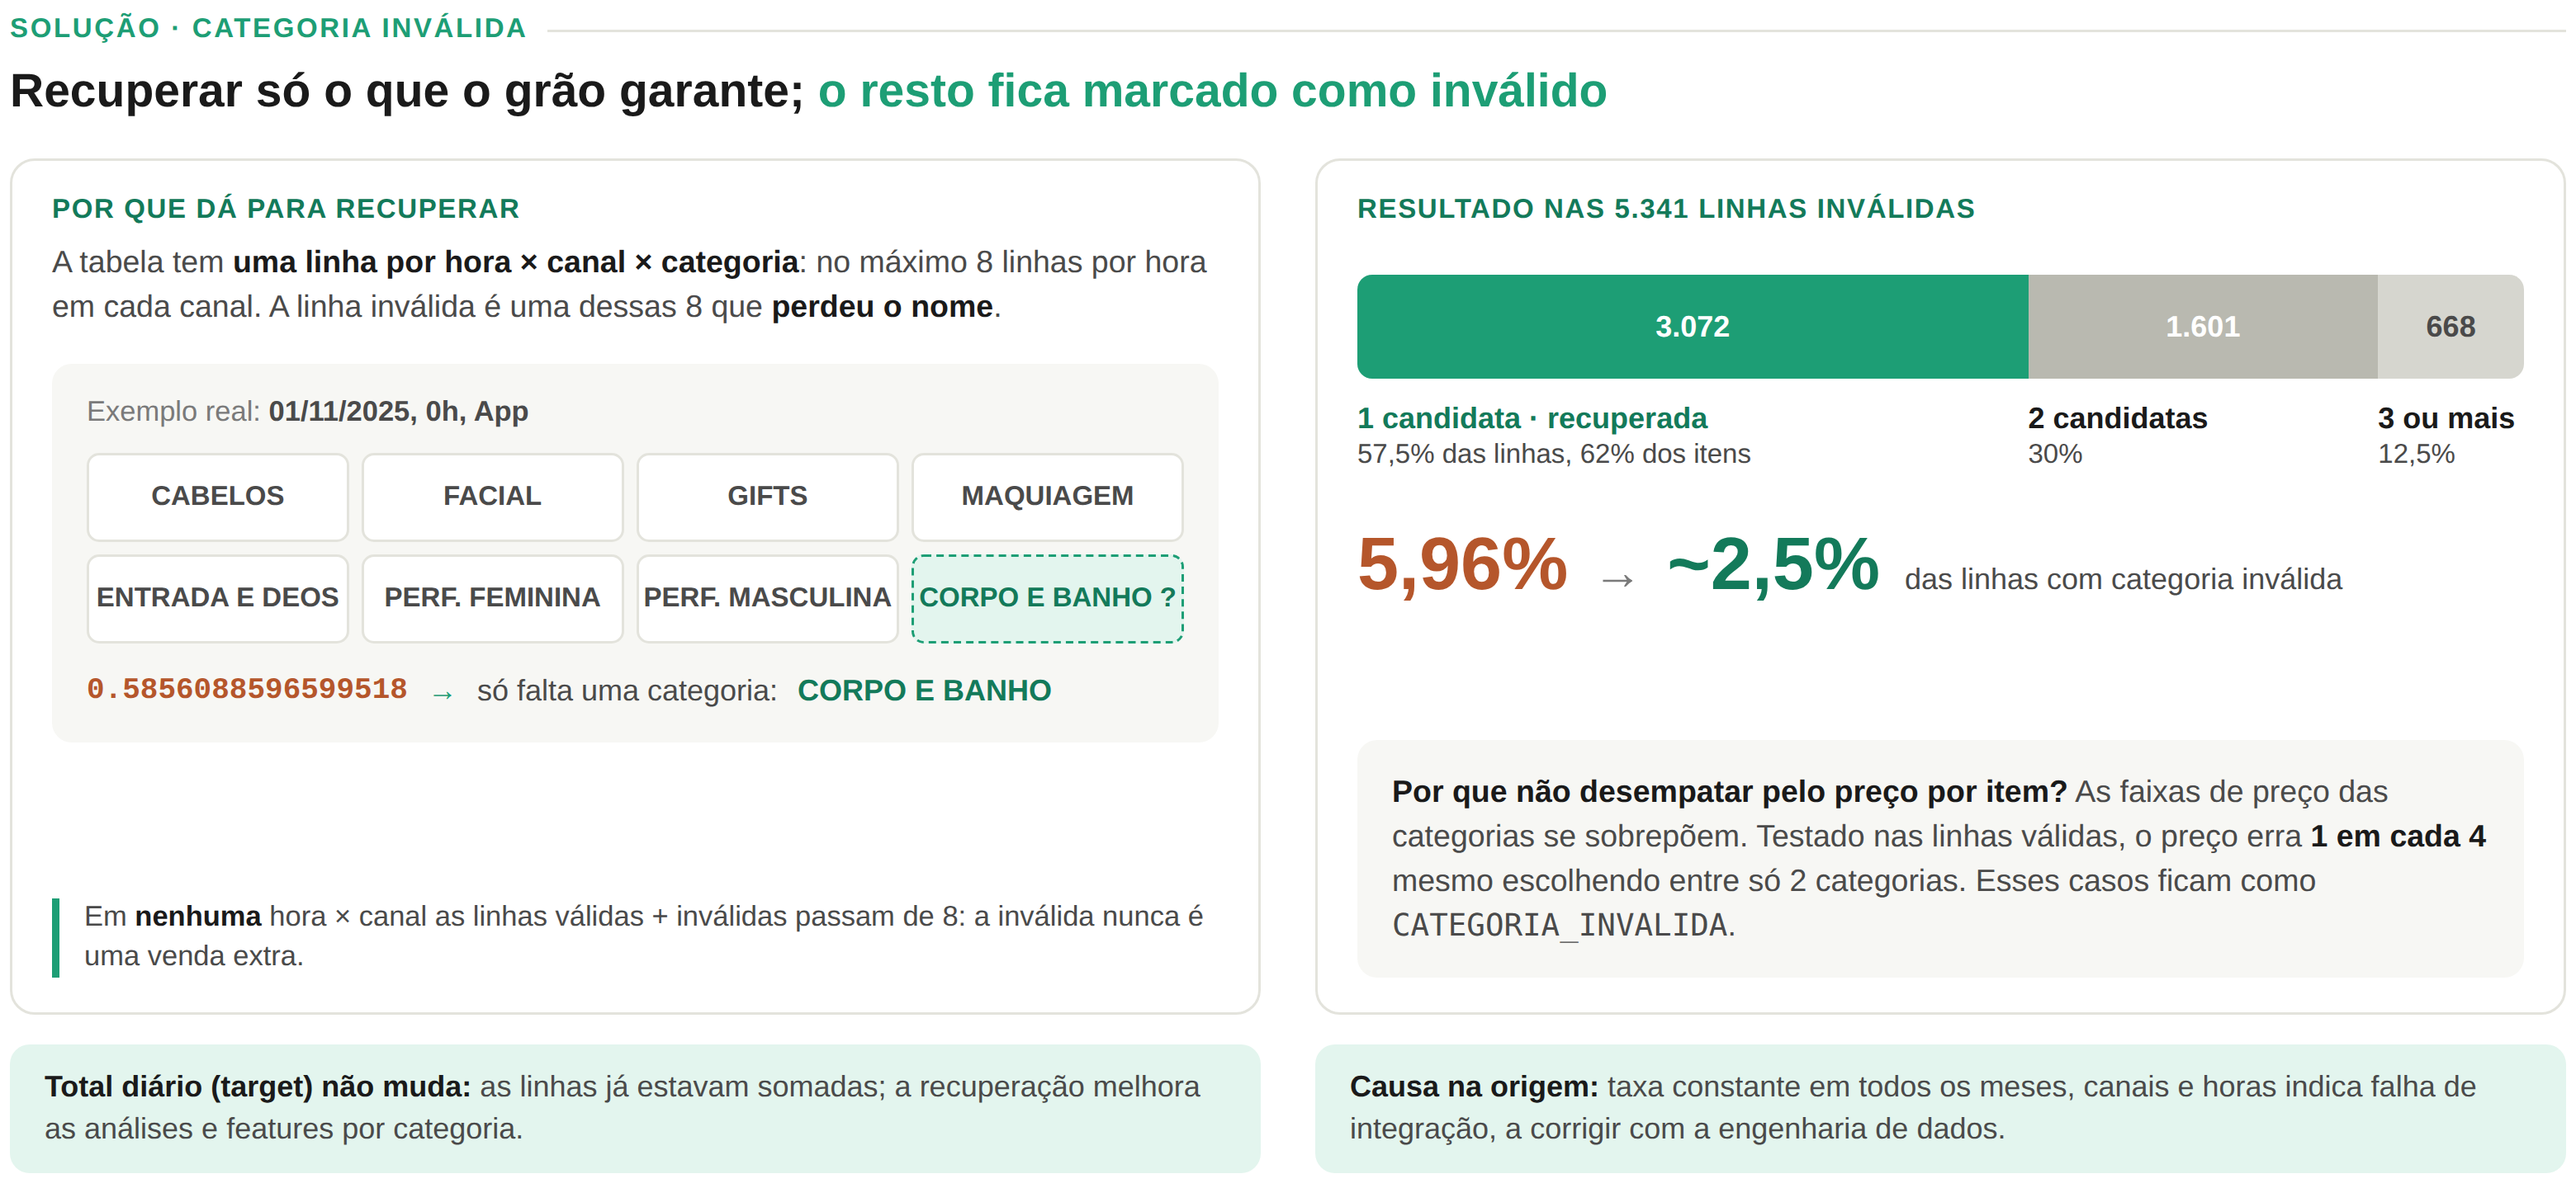
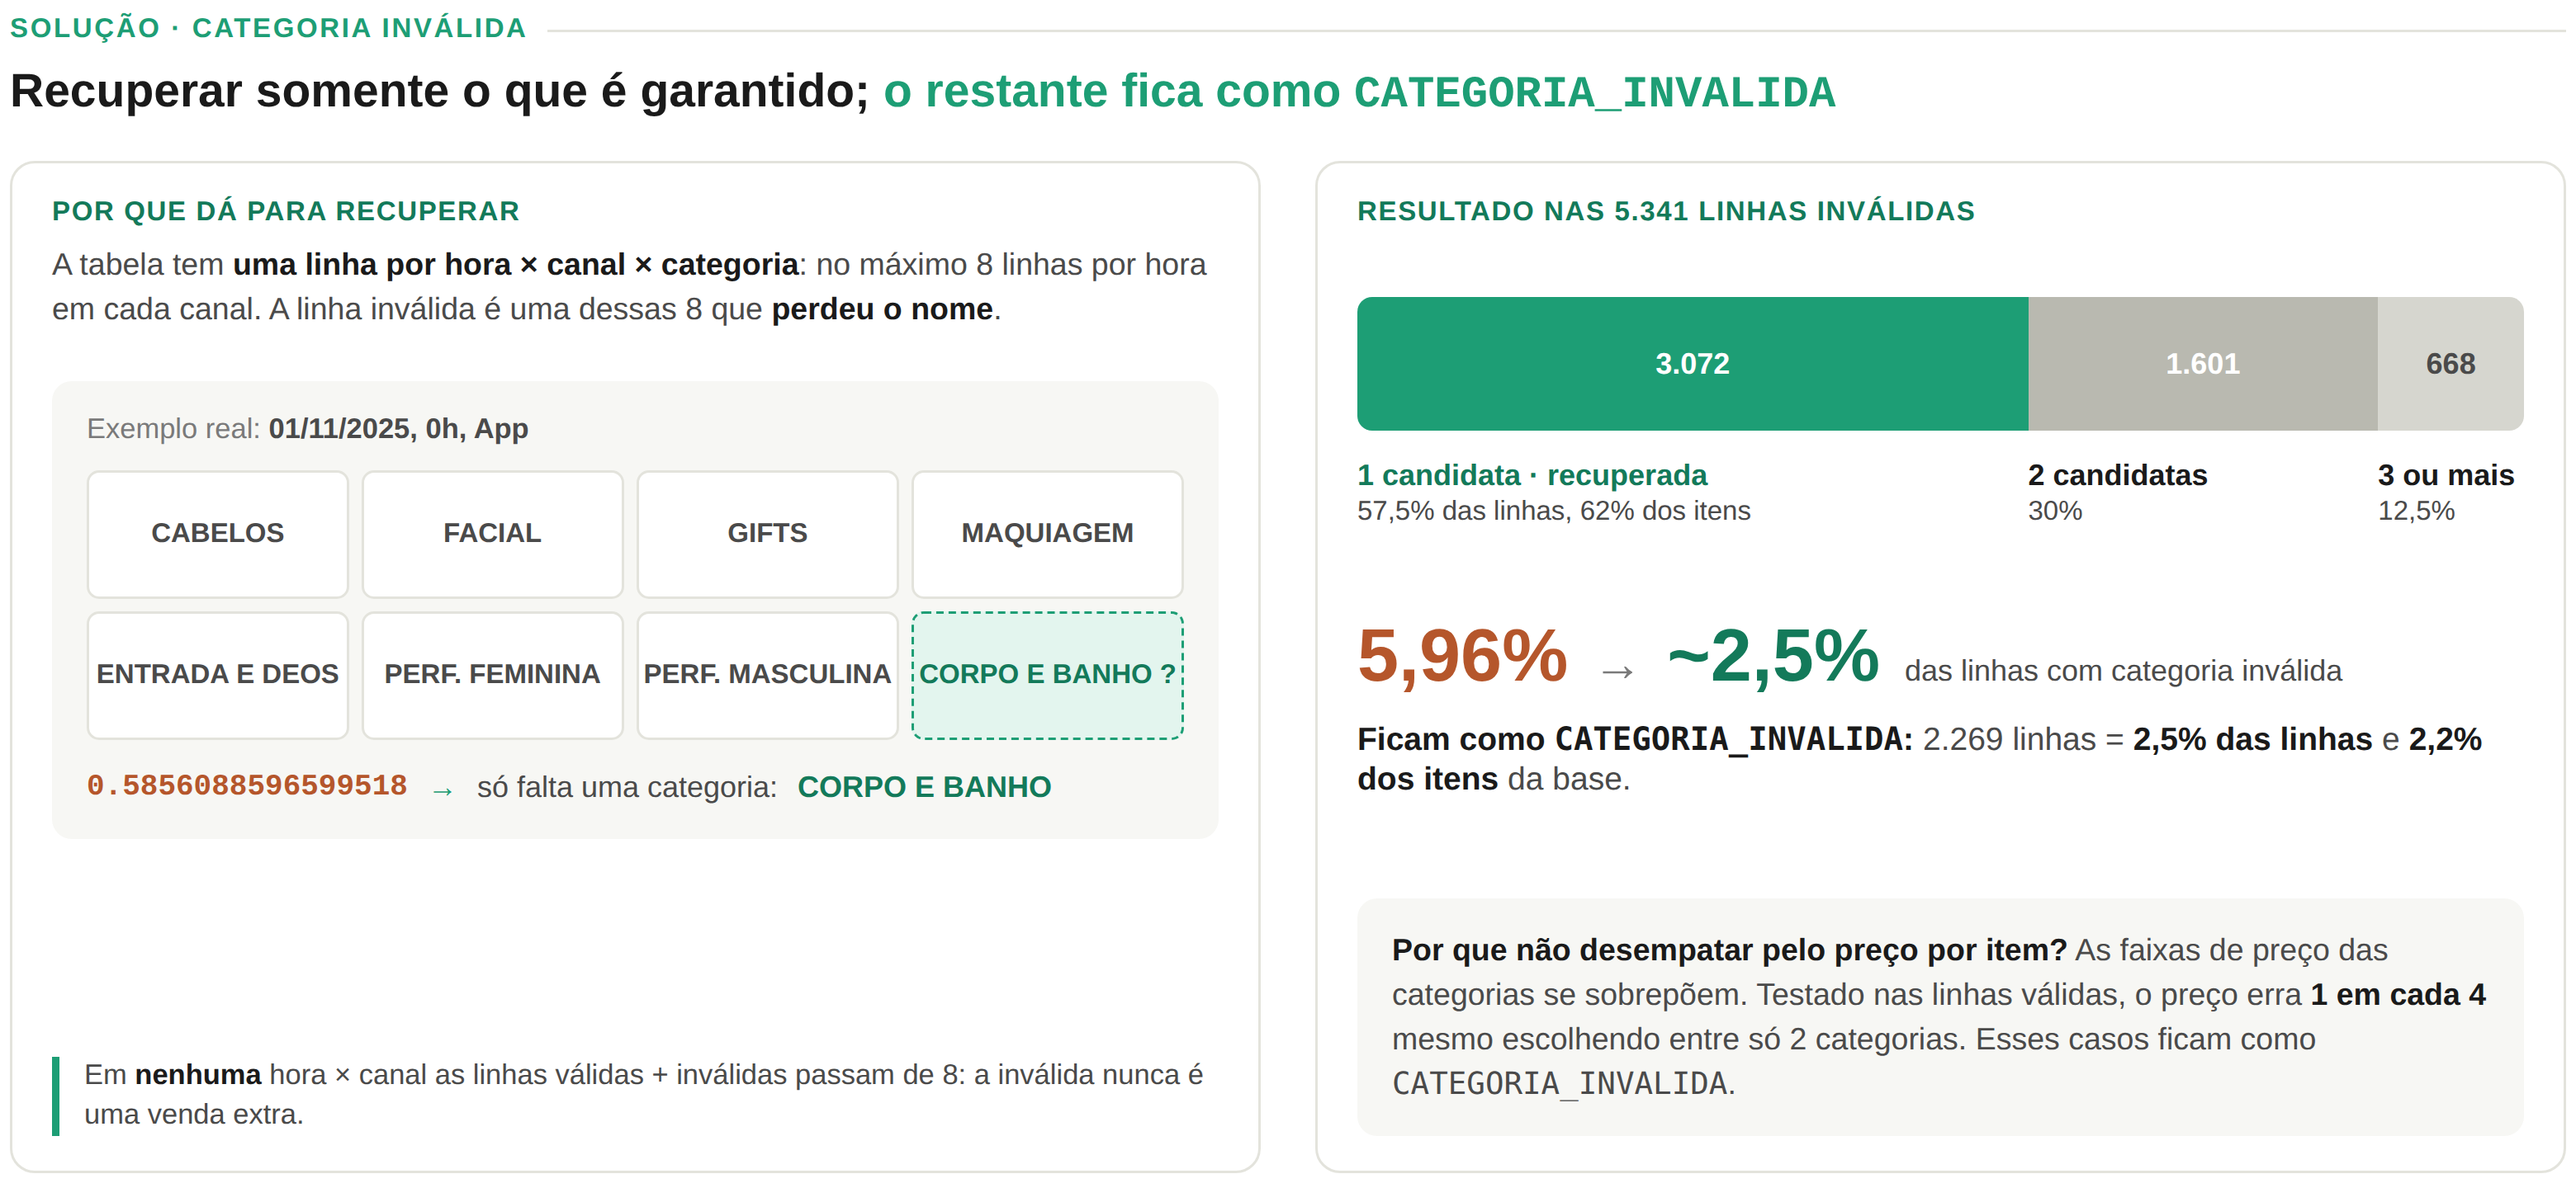
Widget categoria inválida: novo título, parcela que fica inválida e consulta de verificação
Claude-Session: https://claude.ai/code/session_01NUJZKTcM8cs9QBTcUeuacF

diff --git a/apresentacao/widgets/08_categoria_invalida.html b/apresentacao/widgets/08_categoria_invalida.html
@@ -21,11 +21,11 @@
   .txt b { color: var(--tinta); }
 
   /* exemplo do grão */
-  .slot { margin: 14px 0 14px; background: #f7f7f4; border-radius: 8px; padding: 14px 14px; }
+  .slot { margin: 20px 0 16px; background: #f7f7f4; border-radius: 8px; padding: 14px 14px; }
   .slot-cab { font-size: 11.5px; color: var(--tinta-3); margin-bottom: 10px; }
   .slot-cab b { color: var(--tinta-2); }
   .chips { display: grid; grid-template-columns: repeat(4, 1fr); gap: 5px; }
-  .chip { font-size: 11px; font-weight: 700; text-align: center; padding: 11px 2px; border-radius: 5px; background: #fff; border: 1px solid var(--linha); color: var(--tinta-2); white-space: nowrap; }
+  .chip { font-size: 11px; font-weight: 700; text-align: center; padding: 19px 2px; border-radius: 5px; background: #fff; border: 1px solid var(--linha); color: var(--tinta-2); white-space: nowrap; }
   .chip.falta { border: 1.5px dashed var(--verde); color: var(--verde-escuro); background: var(--verde-claro); }
   .chip.inval { border: 1.5px solid var(--laranja); color: var(--laranja); background: var(--laranja-claro); font-family: "Courier New", monospace; }
   .regra { display: flex; align-items: center; gap: 8px; margin-top: 12px; font-size: 12px; color: var(--tinta-2); }
@@ -36,7 +36,7 @@
   .prova b { color: var(--tinta); }
 
   /* resultado */
-  .barra { display: flex; height: 42px; border-radius: 6px; overflow: hidden; margin: 14px 0 8px; }
+  .barra { display: flex; height: 54px; border-radius: 6px; overflow: hidden; margin: 22px 0 10px; }
   .barra div { display: flex; align-items: center; justify-content: center; font-size: 12px; font-weight: 700; color: #fff; }
   .b1 { background: var(--verde); width: 57.5%; }
   .b2 { background: #b9b9b0; width: 30%; }
@@ -44,7 +44,10 @@
   .leg { display: grid; grid-template-columns: 57.5% 30% 12.5%; font-size: 11px; color: var(--tinta-2); line-height: 1.35; }
   .leg b { display: block; color: var(--tinta); font-size: 12px; }
   .leg .ok b { color: var(--verde-escuro); }
-  .antes { display: flex; align-items: baseline; gap: 10px; margin: 22px 0 auto; }
+  .antes { display: flex; align-items: baseline; gap: 10px; margin: 36px 0 10px; }
+  .resta { font-size: 13px; color: var(--tinta-2); margin-bottom: auto; }
+  .resta b { color: var(--tinta); }
+  code.ci { font-family: "Courier New", monospace; font-size: 18px; }
   .antes .n { font-size: 30px; font-weight: 700; color: var(--laranja); line-height: 1; }
   .antes .n.d { color: var(--verde-escuro); }
   .antes .s { font-size: 20px; color: var(--tinta-3); }
@@ -60,7 +63,7 @@
 <body>
 <div class="widget">
   <div class="rotulo">Solução · categoria inválida</div>
-  <h3>Recuperar só o que o grão garante; <span>o resto fica marcado como inválido</span></h3>
+  <h3>Recuperar somente o que é garantido; <span>o restante fica como <code class="ci">CATEGORIA_INVALIDA</code></span></h3>
   <div class="colunas">
     <div class="bloco">
       <div class="tit">Por que dá para recuperar</div>
@@ -84,12 +87,9 @@
         <div><b>3 ou mais</b>12,5%</div>
       </div>
       <div class="antes"><span class="n">5,96%</span><span class="s">→</span><span class="n d">~2,5%</span><span class="l">das linhas com categoria inválida</span></div>
+      <div class="resta"><b>Ficam como <code>CATEGORIA_INVALIDA</code>:</b> 2.269 linhas = <b>2,5% das linhas</b> e <b>2,2% dos itens</b> da base.</div>
       <div class="preco"><b>Por que não desempatar pelo preço por item?</b> As faixas de preço das categorias se sobrepõem. Testado nas linhas válidas, o preço erra <b>1 em cada 4</b> mesmo escolhendo entre só 2 categorias. Esses casos ficam como <code>CATEGORIA_INVALIDA</code>.</div>
     </div>
-  </div>
-  <div class="rodape">
-    <div><b>Total diário (target) não muda:</b> as linhas já estavam somadas; a recuperação melhora as análises e features por categoria.</div>
-    <div><b>Causa na origem:</b> taxa constante em todos os meses, canais e horas indica falha de integração, a corrigir com a engenharia de dados.</div>
   </div>
 </div>
 </body>
